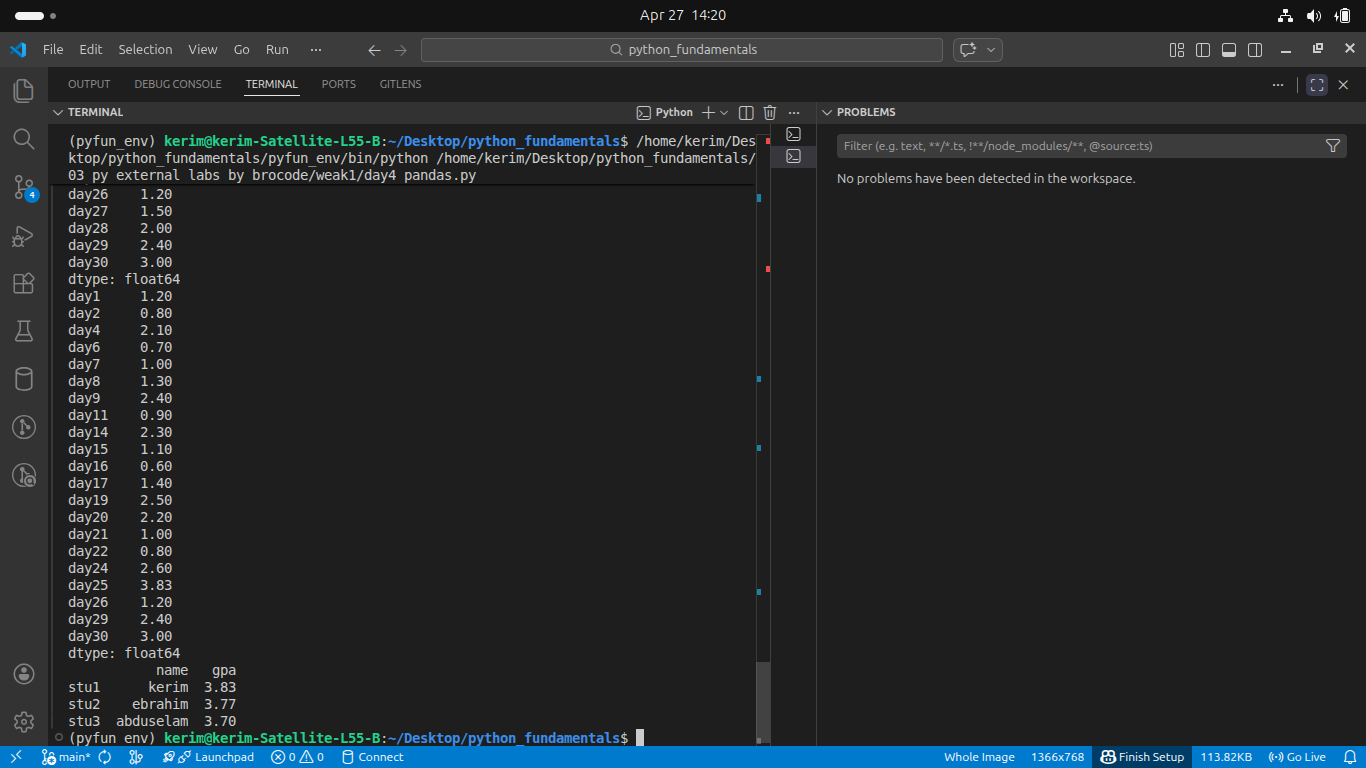
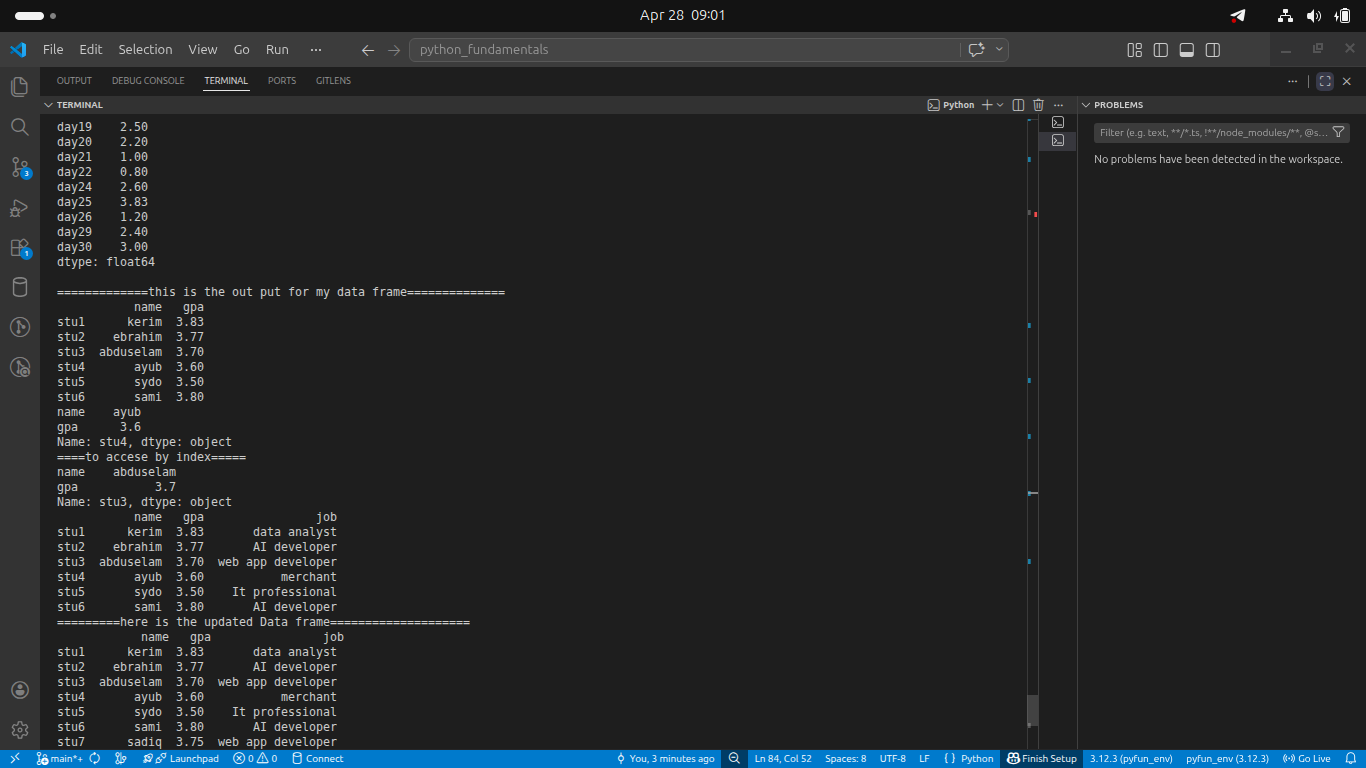
Some additioanal ideas and practices on yesterdays lesson. and also I attached the evidence.

diff --git a/03_py_external_labs_by_brocode/weak1/day4_pandas.py b/03_py_external_labs_by_brocode/weak1/day4_pandas.py
@@ -1,6 +1,6 @@
 
-# hello how are you? you good? well lets dive in todays lesson.
-# today i will start pandas
+# hello how are you? you good? well lets dive in to todays lesson.
+# today i am gonna start pandas
 
 # pandas abbrivation for panel datas which is an external library built on top of numpy.
 # so we can import, manipualte and export datas using pandas.  lets install and import pandas here.
@@ -25,7 +25,7 @@ series=pd.Series(data_usage,index=lables)
 
 # accesing specific data
 print(series.loc["day2"])    # wow python   i love pyhton oooooohhh    it's realy amazing we can access like this "python for smart worker"
-print(series.iloc[3])        # to access value using index.  so we'll see 2.1 in the out put.
+print(series.iloc[3])        # to access value using index.  so we'll see 2.1 in the out put.    so we can say it it's keyed and at the same time indexed.
 
 # to update the series
 series.loc["day25"]=3.83
@@ -35,55 +35,50 @@ print(series)
  
 # to filter in series
 print(series[(series<3/2) | (series>1+1)])
-
+print()
 
 # data frame = is a tabular  data structure with rows and columns.(2dim)
 # it is similar to an excel spreadsheet.
 
-stu_data = {'name':['kerim','ebrahim','abduselam'],
-        'gpa':[3.83,3.77,3.7],
+stu_data = {'name':['kerim','ebrahim','abduselam','ayub','sydo','sami'],
+            'gpa':[3.83,3.77,3.7,3.6,3.5,3.8]
         }
 
-indx=[f'stu{stu}' for stu in  range(1,4)]    # this is how we can give index our self using list comprehension and for loop and also i used f string.
-df= pd.DataFrame(stu_data,index=indx) 
+indx=[f'stu{stu}' for stu in  range(1,7)]    # this is how we can give index our self using list comprehension and for loop and also i used f string.
+df= pd.DataFrame(stu_data,index=indx)        #the way to create data fram is some thing similar with creating series. but the differece here is we can assign for multiple values for one key. so the keys is to be column name and the values are to be columns. 
+print('=============this is the out put for my data frame==============')
+print(df)
+
+# accessing data frame
+print(df.loc['stu4'])     # the out put is very clear and amazing no wonder to get this bc it's python. 
+print('====to accese by index=====')
+print(df.iloc[2])         
+
+# adding new column
+df['job']=['data analyst','AI developer','web app developer','merchant','It professional','AI developer']
+
 print(df)
 
 
+# adding new row
+# new_row=pd.DataFrame([{'name':'sadiq','gpa':3.75,'job':'web app developer'}])
+# df=pd.concat([df,new_row])
+
+# print(df)       # the new row concatinated but  the problem is the index name doesnnit much so lets fix it.
+ 
+
+# new_row=pd.DataFrame([{'name':'sadiq','gpa':3.75,'job':'web app developer'}],index=['stu7'])
+
+# to add multiple rows
+
+new_row=pd.DataFrame([{'name':'sadiq','gpa':3.75,'job':'web app developer'},
+                     {'name':'kyredin','gpa':3.6,'job':'GIS professional'}],
+                     index=['stu7','stu8'])
 
 
+df=pd.concat([df,new_row])
+
+print('=========here is the updated Data frame====================','\n',df)
 
 
-
-
-
-
-
-
-
-
-
-
-
-
-
-
-
-
-
-
-
-
-
-
-
-
-
-
-
-
-
-
-
-
-
-
+# but the question is how can we update Data frame?
